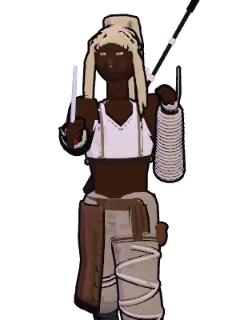
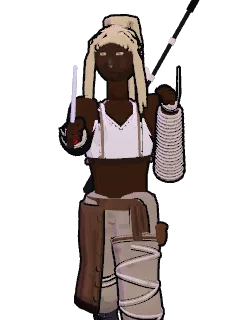
Retratos da página Sobre refeitos
- Elenco inteiro renderizado de novo dos modelos atuais (240×320, .webp)
- Novos: Raziel, Juan Portador, Celestine, Deus da Morte e Anfitrião

diff --git a/TODO.md b/TODO.md
@@ -1602,7 +1602,7 @@ O projeto deve continuar evoluindo sem recriar sistemas já existentes.
         REALIDADE (`specials/realityRewrite.js`, não é transformação: 30% da vida, sanidade cheia, sem nada de ruim em cima,
         recargas zeradas e os buffs do adversário apagados) + CONJURAÇÃO VERDADEIRA (rituais 25% mais baratos) + DESTRONAR O
         ANFITRIÃO (+30% de dano nele). Testado no jogo.
-      - [x] **1 (feito em 2026-10-27): CELESTINE** — jogável: Portadores (logo depois do Ferreiro) com a etiqueta da Ordo Calamitas; kit das machadinhas na corrente (□ crava e puxa), Corrente Giratória, Código, Investida Rebelde, Endorfina, especial Duelo Final, passiva Nada Pessoal (+20% pelas costas) e a Transformação que vira CELESTINE, A MAGISTRADA (o kit da Magistrada com a aparência dela). Falas contra o elenco inteiro. Testado no jogo. Falta só o retrato da página Sobre (`public/sobre/elenco/celestine.webp`). — pedido do dono: entra numa equipe NOVA, a **ORDO CALAMITAS** (depois entram os
+      - [x] **1 (feito em 2026-10-27): CELESTINE** — jogável: Portadores (logo depois do Ferreiro) com a etiqueta da Ordo Calamitas; kit das machadinhas na corrente (□ crava e puxa), Corrente Giratória, Código, Investida Rebelde, Endorfina, especial Duelo Final, passiva Nada Pessoal (+20% pelas costas) e a Transformação que vira CELESTINE, A MAGISTRADA (o kit da Magistrada com a aparência dela). Falas contra o elenco inteiro. Testado no jogo. Retrato da página Sobre feito (2026-10-27: o elenco inteiro renderizado de novo dos modelos atuais, com os que faltavam — Raziel, Juan Portador, Celestine, Deus da Morte e Anfitrião). — pedido do dono: entra numa equipe NOVA, a **ORDO CALAMITAS** (depois entram os
         outros membros: Gaius, Amalia, Cornelius...). Pesquisa (wiki "Celestine"): guerreira de 67 d.C., pele clara, cabelo
         loiro curto, armadura com panos, cachecol, o Símbolo da Ordo Calamitas no peito; arma: DUAS MACHADINHAS com talhos
         azuis LIGADAS POR UMA CORRENTE; habilidades da ficha: NADA PESSOAL (+1 dado ao trair) e CÓDIGO (sussurra mensagens);
